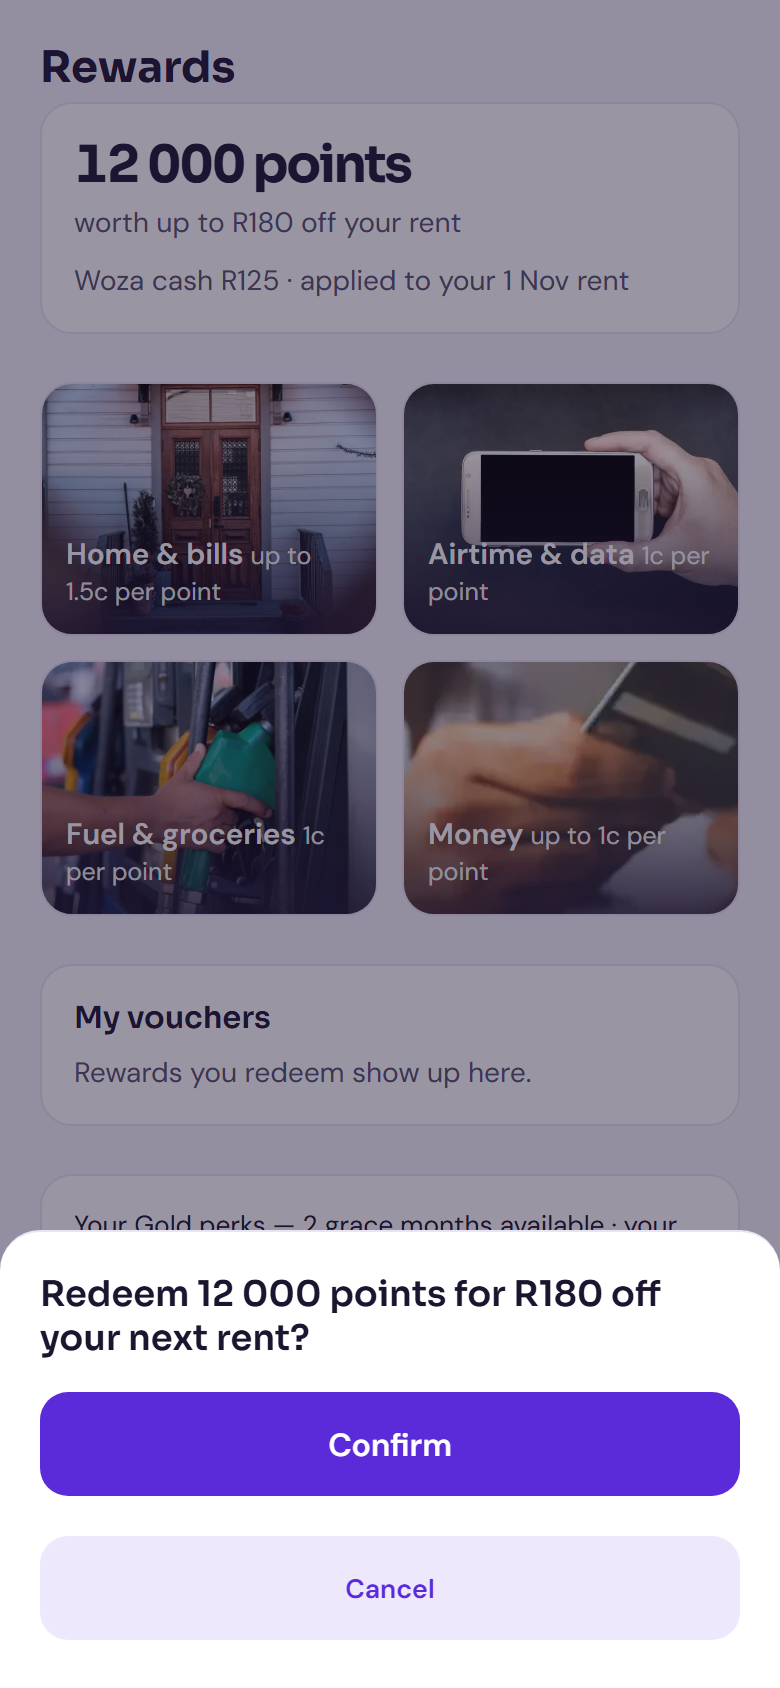
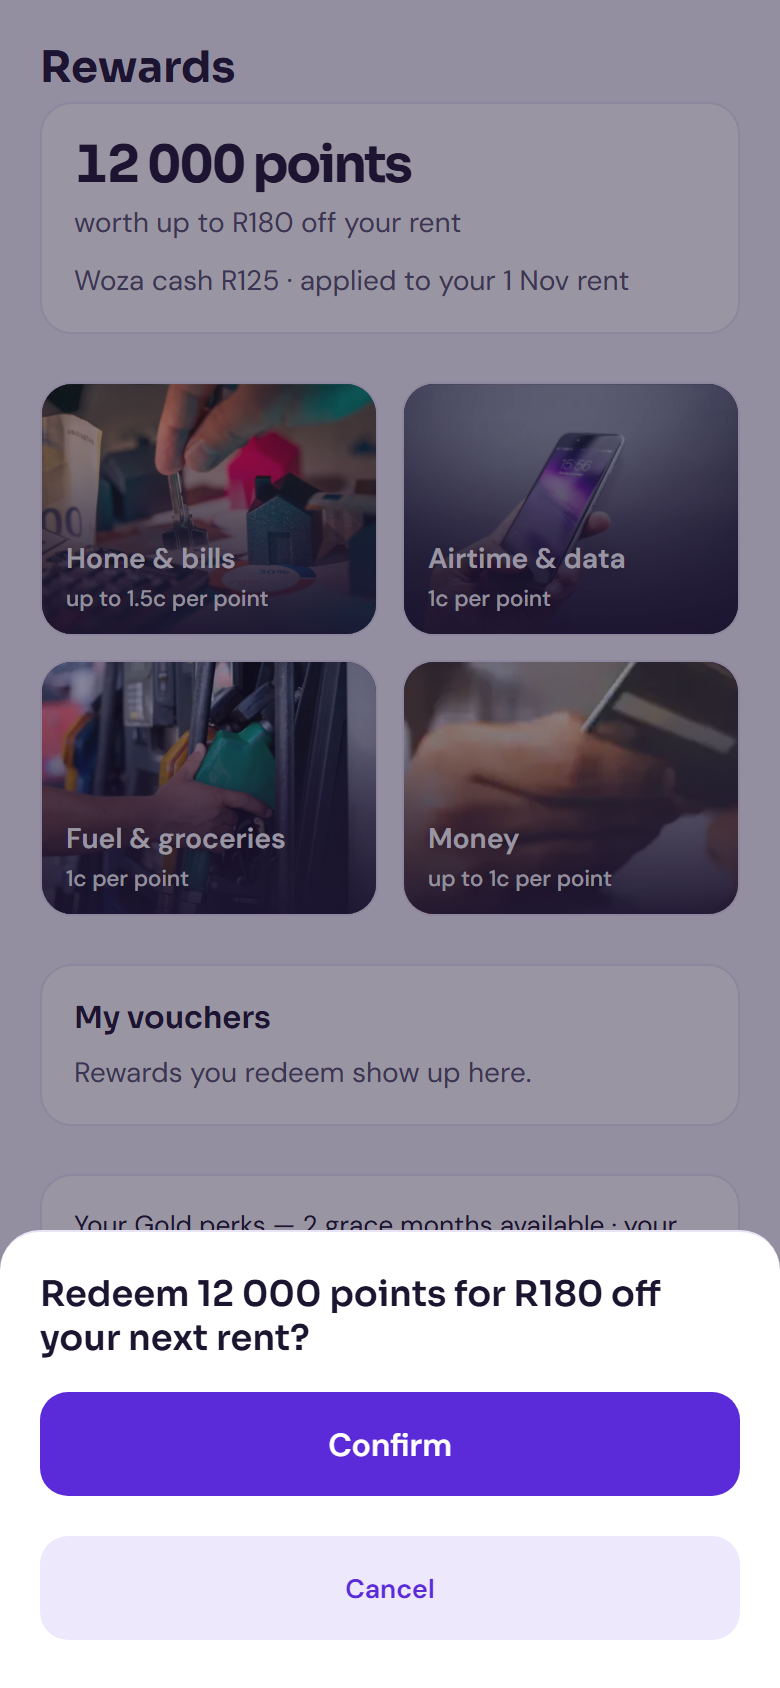
polish: curated rewards photos

diff --git a/static/index.html b/static/index.html
@@ -31,7 +31,7 @@
   <link rel="preconnect" href="https://fonts.gstatic.com" crossorigin />
   <link rel="stylesheet" href="https://fonts.googleapis.com/css2?family=DM+Sans:wght@400;500;600&family=Sora:wght@600;700&display=swap" media="print" onload="this.media='all'" />
   <noscript><link rel="stylesheet" href="https://fonts.googleapis.com/css2?family=DM+Sans:wght@400;500;600&family=Sora:wght@600;700&display=swap" /></noscript>
-  <link rel="stylesheet" href="/static/woza-card.css?v=24" />
+  <link rel="stylesheet" href="/static/woza-card.css?v=25" />
   <style>
     :root {
       --bg: #F6F4FB;
@@ -180,18 +180,26 @@
     .cat-photo {
       display: block; position: relative;
       width: 100%; aspect-ratio: 4 / 3;
+      background-color: #3A2468;
       background-size: cover; background-position: center;
     }
     .cat-photo::after {
       content: ""; position: absolute; inset: 0;
-      background: linear-gradient(to top, rgba(28, 21, 48, 0.78) 0%, rgba(28, 21, 48, 0.18) 48%, transparent 72%);
+      background: linear-gradient(to top, rgba(28, 21, 48, 0.92) 0%, rgba(28, 21, 48, 0.55) 40%, rgba(28, 21, 48, 0.12) 68%, transparent 82%);
     }
     .cat-copy {
       position: absolute; left: 0; right: 0; bottom: 0; z-index: 1;
-      padding: 10px 12px 12px;
+      display: flex; flex-direction: column; align-items: flex-start; gap: 2px;
+      padding: 12px 12px 11px;
     }
-    .cat-tile .row-title, .cat-tile .row-sub { color: #fff; }
-    .cat-tile .row-sub { opacity: 0.92; }
+    .cat-tile .row-title {
+      display: block; font-weight: 700; font-size: 0.88rem; color: #fff;
+      line-height: 1.2; text-shadow: 0 1px 8px rgba(28, 21, 48, 0.45);
+    }
+    .cat-tile .row-sub {
+      display: block; font-weight: 500; font-size: 0.7rem; color: #fff; opacity: 0.95;
+      line-height: 1.25; text-shadow: 0 1px 6px rgba(28, 21, 48, 0.4);
+    }
     .reward-carousel {
       display: flex; gap: 12px; overflow-x: auto; scroll-snap-type: x mandatory;
       padding: 4px 2px 10px; margin: 0 -4px;
@@ -203,6 +211,7 @@
     }
     .reward-photo {
       height: 88px; border-radius: 12px; margin-bottom: 10px;
+      background-color: #3A2468;
       background-size: cover; background-position: center;
     }
     .reward-cost { font-size: 0.78rem; color: var(--muted); margin: 6px 0 10px; }
@@ -756,7 +765,7 @@
     </div>
   </div>
   <script src="/static/qrcode.js"></script>
-  <script src="/static/woza-card.js?v=24"></script>
+  <script src="/static/woza-card.js?v=25"></script>
 
   <script>
     const IC = {
@@ -1336,19 +1345,19 @@
     }
 
     const PHOTO = {
-      home: "/static/img/home.webp",
+      rent: "/static/img/rent.webp",
       electricity: "/static/img/electricity.webp",
-      phone: "/static/img/phone.webp",
+      airtime: "/static/img/airtime.webp",
       fuel: "/static/img/fuel.webp",
       groceries: "/static/img/groceries.webp",
+      restaurants: "/static/img/restaurants.webp",
       card: "/static/img/card.webp",
       cash: "/static/img/cash.webp",
-      rent: "/static/img/rent.webp",
     };
-    const TILE_PHOTO = { home: "home", airtime: "phone", fuel: "fuel", money: "card" };
+    const TILE_PHOTO = { home: "rent", airtime: "airtime", fuel: "fuel", money: "card" };
     const CARD_PHOTO = {
-      rent: "rent", electricity: "electricity", data: "phone", air: "phone",
-      pump: "fuel", shop: "groceries", bucks: "card", cash: "cash",
+      rent: "rent", electricity: "electricity", data: "airtime", air: "airtime",
+      pump: "fuel", shop: "groceries", restaurant: "restaurants", bucks: "card", cash: "cash",
     };
 
     const REWARD_CATS = [
@@ -1381,7 +1390,7 @@
         art: "fuel",
         cards: [
           { option: "fuel", points: 12000, art: "pump", title: "R120 of fuel, about 5 litres", get: "1c per point", confirm: "Redeem 12 000 points for R120 of fuel?" },
-          { option: "groceries", points: 12000, art: "shop", title: "R120 at partner stores", get: "1c per point", confirm: "Redeem 12 000 points for R120 at partner stores?" },
+          { option: "groceries", points: 12000, art: "restaurant", title: "R120 at partner stores", get: "1c per point", confirm: "Redeem 12 000 points for R120 at partner stores?" },
           { option: "groceries", points: 6000, art: "shop", title: "R60 at partner stores", get: "1c per point", confirm: "Redeem 6 000 points for R60 at partner stores?" },
         ],
       },
@@ -1415,7 +1424,7 @@
         <div class="cat-grid section">
           ${REWARD_CATS.map((c) => `
             <button type="button" class="cat-tile" data-cat="${escapeHtml(c.id)}">
-              <span class="cat-photo" style="background-image:url('${PHOTO[TILE_PHOTO[c.id]] || PHOTO.home}')">
+              <span class="cat-photo" style="background-image:url('${PHOTO[TILE_PHOTO[c.id]] || PHOTO.rent}')">
                 <span class="cat-copy">
                   <span class="row-title">${escapeHtml(c.name)}</span>
                   <span class="row-sub">${escapeHtml(c.rate)}</span>

diff --git a/static/sw.js b/static/sw.js
@@ -1,4 +1,4 @@
-const CACHE = "woza-v24";
+const CACHE = "woza-v25";
 const PRECACHE = [
   "/",
   "/static/manifest.json",

diff --git a/static/img/CREDITS.md b/static/img/CREDITS.md
@@ -1,44 +1,38 @@
 # Photo credits
 
-All photos are free for commercial use. Attribution is not required.
-Downloaded and converted to 800 px-wide WebP for Woza Rewards tiles and reward cards.
+Converted to 800 px-wide WebP, under 60 KB, for Woza Rewards tiles and cards.
 
-## home.webp
-- Use: Home & bills tile
-- Source: https://unsplash.com/photos/a-wooden-front-door-is-the-images-focal-point-XZ3cyhPPhCQ
-- Licence: Unsplash License (commercial use, no attribution required)
+## rent.webp
+- Use: Home & bills tile; R180 / R90 off next rent
+- Source: curated photo supplied for this project
 
 ## electricity.webp
-- Use: Electricity reward card
-- Source: https://www.pexels.com/photo/clear-light-bulb-577514/
-- Licence: Pexels License (commercial use, no attribution required)
+- Use: R120 prepaid electricity card
+- Source: curated photo supplied for this project
 
-## phone.webp
-- Use: Airtime & data tile and cards
-- Source: https://www.pexels.com/photo/person-holding-android-smartphone-with-black-screen-301718/
-- Licence: Pexels License (commercial use, no attribution required)
+## airtime.webp
+- Use: Airtime & data tile and its cards
+- Source: curated photo supplied for this project
 
 ## fuel.webp
-- Use: Fuel tile and fuel reward card
+- Use: Fuel & groceries tile; R120 of fuel card
 - Source: https://www.pexels.com/photo/a-person-s-hand-holding-a-gas-pump-12377481/
 - Licence: Pexels License (commercial use, no attribution required)
 
 ## groceries.webp
-- Use: Groceries reward card
+- Use: R60 at partner stores card
 - Source: https://www.pexels.com/photo/fruits-and-vegetables-on-wicker-basket-5709270/
 - Licence: Pexels License (commercial use, no attribution required)
 
+## restaurants.webp
+- Use: R120 at partner stores card
+- Source: curated photo supplied for this project
+
 ## card.webp
-- Use: Money tile and eBucks card
-- Source: https://unsplash.com/photos/person-holding-bank-card-at-laptop-1563013544-824ae1b704d3
+- Use: Money tile; R120 in eBucks card
+- Source: https://unsplash.com/photos/1563013544-824ae1b704d3
 - Licence: Unsplash License (commercial use, no attribution required)
 
 ## cash.webp
-- Use: Cash reward card
-- Source: https://unsplash.com/photos/1633158829585-23ba8f7c8caf
-- Licence: Unsplash License (commercial use, no attribution required)
-
-## rent.webp
-- Use: Rent credit reward card
-- Source: https://www.pexels.com/photo/vintage-key-in-rustic-wooden-keyhole-33438870/
-- Licence: Pexels License (commercial use, no attribution required)
+- Use: Cash to bank cards
+- Source: curated photo supplied for this project
